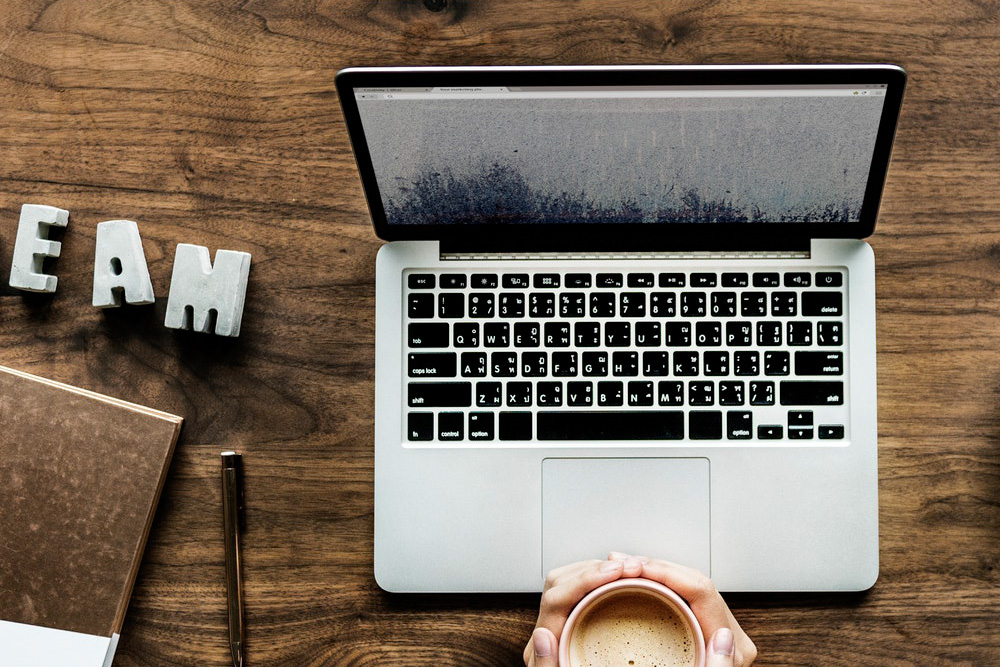
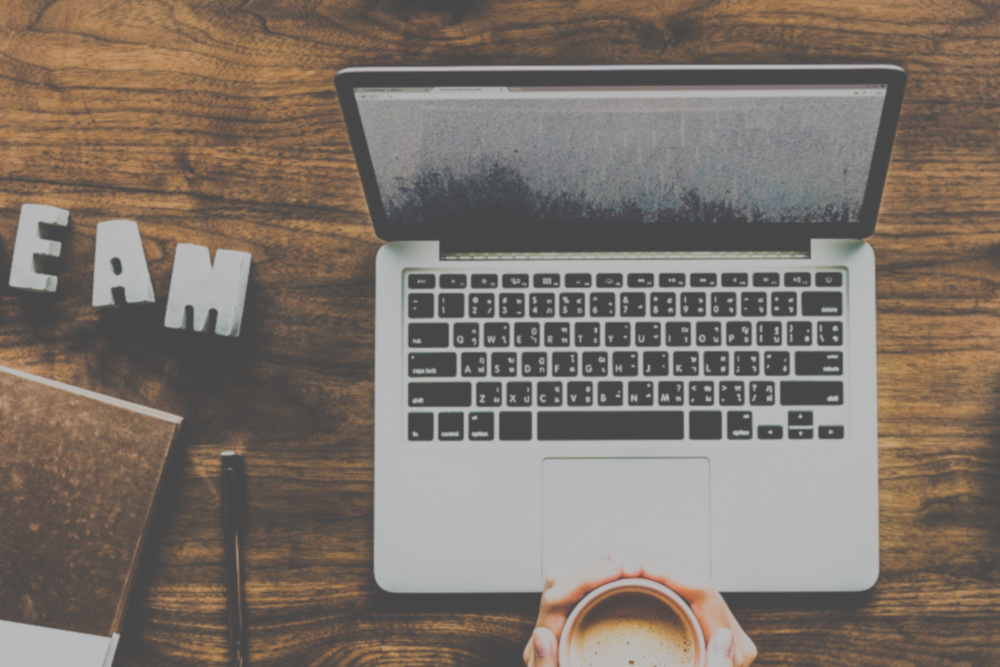
use file named header3.jpg

diff --git a/_sass/_base.scss b/_sass/_base.scss
@@ -155,7 +155,7 @@ header {
     min-height: auto;
     @include background-cover;
     background-position: center;
-    background-image: url('../img/header.jpg');
+    background-image: url('../img/header3.jpg');
     text-align: center;
     color: white;
     .header-content {
@@ -348,4 +348,3 @@ img::-moz-selection {
 body {
     -webkit-tap-highlight-color: $theme-dark;
 }
-
